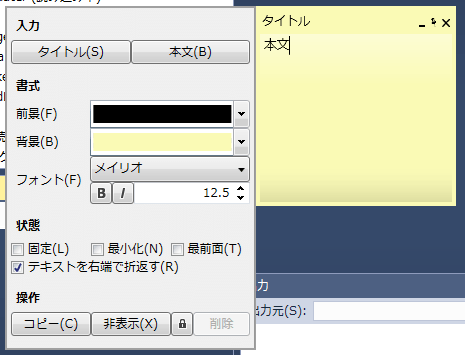
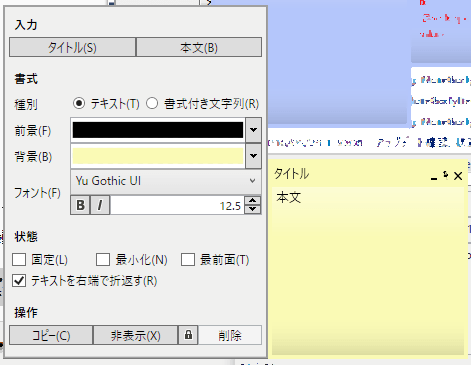
#448 doc

diff --git a/Pe/PeMain/doc/help/html/note.ja-JP.html b/Pe/PeMain/doc/help/html/note.ja-JP.html
@@ -25,24 +25,119 @@
 				各種入力は自動保存されます。
 			</p>
 
-			<h2>非表示と削除</h2>
-			<p>
-				非表示にした場合は通知領域のコンテキストメニューから復帰可能です。
-			</p>
-			<p>
-				削除した場合は復帰することは出来ません。
-			</p>
-			<div class="hint">
-				削除するには<em class="ui"><img src="../image/CommonLock.png" /></em>をクリックしてから<em class="ui">削除</em>をクリックしてください。
-			</div>
+			<h2>書式</h2>
+			<dl class="ui-help">
+				<dt>種別</dt>
+				<dd>
+					<p>
+						入力データを選択します。
+					</p>
+					<table>
+						<thead>
+							<tr>
+								<th>項目</th>
+								<th>内容</th>
+							</tr>
+						</thead>
+						<tbody>
+							<tr>
+								<td>テキスト</td>
+								<td>
+									<p>
+										入力データをプレーンテキストとして扱います。
+									</p>
+									<p>
+										プレーンテキストのためテキストそのものが唯一意味を持ち、
+										分かりやすい挙動で扱うことができます。
+									</p>
+								</td>
+							</tr>
+							<tr>
+								<td>書式付き文字列</td>
+								<td>
+									<p>
+										入力データを書式付き文字列として扱います。
+									</p>
+									<p>
+										RTFで書式を保持します。<br />
+										太字や斜体等の設定を一部の文字列だけに適用させることができます。
+									</p>
+									<div class="bug">
+										<p>
+											RichText コントロールの機能に対して操作UIが少なく、制御も不完全であるため予期しない書式・挙動が発生します。
+										</p>
+									</div>
+								</td>
+							</tr>
+						</tbody>
+					</table>
+					<div class="warning">
+						<p>
+							<strong class="value">書式付き文字列</strong>から<strong class="value">テキスト</strong>へ設定変更する場合は<em class="ui">書式の破棄</em>を押下後、ラジオボタンを切り替える必要があります。
+							切り替えた際には設定していた書式はすべて破棄されます。
+						</p>
+					</div>
+				</dd>
 
-			<h2>固定</h2>
-			<p>
-				固定にチェックを入れるとノートの移動や位置設定、本文入力ができなくなります。
-			</p>
-			<p>
-				これはマウスカーソルによる意図しない操作を防ぐためのもので、操作ウィンドウからの各種操作は固定の有無に関わらず有効です。
-			</p>
+				<dt>前景色・背景色</dt>
+				<dd>
+					<p>
+						ノートに対して各色を設定します。
+					</p>
+					<p>
+						<dfn>種別</dfn>が<strong class="value">書式付き文字列</strong>の場合、選択している文字列に対して設定が適用されます。
+					</p>
+				</dd>
+
+				<dt>フォント</dt>
+				<dd>
+					<p>
+						入力データを表示するフォントの設定を行います。
+					</p>
+					<p>
+						<dfn>種別</dfn>が<strong class="value">書式付き文字列</strong>の場合、選択している文字列に対して設定が適用されます。
+						さらに選択できる項目に<strong class="value">下線</strong>, <strong class="value">取り消し線</strong>が追加されます。
+					</p>
+				</dd>
+			</dl>
+
+			<h2>状態</h2>
+			<dl class="ui-help">
+				<dt>非表示と削除</dt>
+				<dd>
+					<p>
+						非表示にした場合は通知領域のコンテキストメニューから復帰可能です。
+					</p>
+					<p>
+						削除した場合は復帰することは出来ません。
+					</p>
+					<div class="hint">
+						<p>
+							削除するには<em class="ui"><img src="../image/CommonLock.png" /></em>をクリックしてから<em class="ui">削除</em>をクリックしてください。
+						</p>
+					</div>
+				</dd>
+
+				<dt>固定</dt>
+				<dd>
+					<p>
+						固定にチェックを入れるとノートの移動や位置設定、本文入力ができなくなります。
+					</p>
+					<p>
+						これはマウスカーソルによる意図しない操作を防ぐためのもので、操作ウィンドウからの各種操作は固定の有無に関わらず有効です。
+					</p>
+				</dd>
+
+				<dt>テキストを右端で折り返す</dt>
+				<dd>
+					<p>
+						テキストをノートのサイズに合わせて自動改行するか設定します。
+					</p>
+					<p>
+						<dfn>種別</dfn>が<strong class="value">書式付き文字列</strong>の場合、本項目は無効となり常に折り返されるようになります。
+					</p>
+				</dd>
+			</dl>
 
 		</section>
 		<nav id="main-menu"></nav>

diff --git a/Pe/PeMain/View/Parts/Control/SettingPage/NoteSettingControl.xaml b/Pe/PeMain/View/Parts/Control/SettingPage/NoteSettingControl.xaml
@@ -23,6 +23,8 @@
         <ResourceDictionary Source="/View/Parts/Resource/LabelDictionary.xaml"/>
         <ResourceDictionary Source="/View/Parts/Resource/AppHotKeyDictionary.xaml"/>
         <ResourceDictionary Source="/View/Parts/Resource/FontSelectDictionary.xaml"/>
+        <ResourceDictionary Source="/View/Parts/Resource/RadioButtonDictionary.xaml"/>
+        <ResourceDictionary Source="/View/Parts/Resource/CheckboxDictionary.xaml"/>
       </ResourceDictionary.MergedDictionaries>
       <SC:EnumToBooleanConverter x:Key="EnumToBooleanConverter" />
     </ResourceDictionary>
@@ -98,15 +100,20 @@
           <Label Grid.Row="2" Grid.Column="0" Content="back" AA:Language.Word="note-setting/style/back-color" Style="{StaticResource HeaderLabel}" />
           <xctk:ColorPicker Grid.Row="2" Grid.Column="1" Style="{StaticResource DefaultColorPicker}" SelectedColor="{Binding BackColor}" />
 
-          <CheckBox Grid.Row="3" Grid.Column="0" Grid.ColumnSpan="2" Content="topmost" AA:Language.Word="note/state/topmost" IsChecked="{Binding IsTopmost}" />
+          <CheckBox Grid.Row="3" Grid.Column="0" Grid.ColumnSpan="2" Content="topmost" AA:Language.Word="note/state/topmost" IsChecked="{Binding IsTopmost}" Style="{StaticResource DefaultVerticalCheckBox}" />
 
-          <CheckBox Grid.Row="4" Grid.Column="0" Grid.ColumnSpan="2" Content="autolinefeed" AA:Language.Word="note/state/autolinefeed" IsChecked="{Binding AutoLineFeed}" />
+          <CheckBox Grid.Row="4" Grid.Column="0" Grid.ColumnSpan="2" Content="autolinefeed" AA:Language.Word="note/state/autolinefeed" IsChecked="{Binding AutoLineFeed}" Style="{StaticResource DefaultVerticalCheckBox}" />
 
           <Label Grid.Row="5" Grid.Column="0" Content="kind" AA:Language.Word="note/style/kind" Style="{StaticResource HeaderLabel}" />
-          <DockPanel Grid.Row="5" Grid.Column="1">
-            <RadioButton Content="text" AA:Language.Word="note/style/kind/text" IsChecked="{Binding NoteKind, Converter={StaticResource EnumToBooleanConverter}, ConverterParameter={x:Static ADD:NoteKind.Text}}"/>
-            <RadioButton Content="rtf" AA:Language.Word="note/style/kind/rtf" IsChecked="{Binding NoteKind, Converter={StaticResource EnumToBooleanConverter}, ConverterParameter={x:Static ADD:NoteKind.Rtf}}" />
-          </DockPanel>
+          <Grid Grid.Row="5" Grid.Column="1">
+            <Grid.ColumnDefinitions>
+              <ColumnDefinition Width="5*" />
+              <ColumnDefinition Width="5*" />
+            </Grid.ColumnDefinitions>
+            <!-- 横方向はパネルに任せて縦用のスタイルを適用 -->
+            <RadioButton Grid.Column="0" Content="text" AA:Language.Word="note/style/kind/text" IsChecked="{Binding NoteKind, Converter={StaticResource EnumToBooleanConverter}, ConverterParameter={x:Static ADD:NoteKind.Text}}" Style="{StaticResource DefaultVerticalRadioButton}" />
+            <RadioButton Grid.Column="1" Content="rtf" AA:Language.Word="note/style/kind/rtf" IsChecked="{Binding NoteKind, Converter={StaticResource EnumToBooleanConverter}, ConverterParameter={x:Static ADD:NoteKind.Rtf}}" Style="{StaticResource DefaultVerticalRadioButton}" />
+          </Grid>
         </Grid>
       </GroupBox>
 

diff --git a/Pe/PeMain/View/NoteWindow.xaml b/Pe/PeMain/View/NoteWindow.xaml
@@ -363,10 +363,10 @@
                             <Setter Property="Content">
                               <Setter.Value>
                                 <WrapPanel Orientation="Horizontal">
-                                  <ToggleButton IsChecked="{Binding TextUnderline}">
+                                  <ToggleButton IsChecked="{Binding TextUnderline}" AA:Language.Hint="note/style/font/underline:hint">
                                     <Image Style="{StaticResource DefaultImage}" Source="{x:Static AM:AppResource.NoteFormatUnderlineImage}" />
                                   </ToggleButton>
-                                  <ToggleButton IsChecked="{Binding TextStrikethrough}">
+                                  <ToggleButton IsChecked="{Binding TextStrikethrough}" AA:Language.Hint="note/style/font/strikethrough:hint">
                                     <Image Style="{StaticResource DefaultImage}" Source="{x:Static AM:AppResource.NoteFormatStrikethroughImage}" />
                                   </ToggleButton>
                                 </WrapPanel>

diff --git a/Pe/PeMain/Properties/AssemblyInfo.cs b/Pe/PeMain/Properties/AssemblyInfo.cs
@@ -44,12 +44,12 @@ using System.Windows;
 // アセンブリのバージョン情報は、以下の 4 つの値で構成されています:
 //
 //      Major Version
-//      Minor Version 
+//      Minor Version
 //      Build Number
 //      Revision
 //
-// すべての値を指定するか、下のように '*' を使ってビルドおよびリビジョン番号を 
+// すべての値を指定するか、下のように '*' を使ってビルドおよびリビジョン番号を
 // 既定値にすることができます:
 // [assembly: AssemblyVersion("1.0.*")]
-[assembly: AssemblyVersion("0.79.5.*")]
+[assembly: AssemblyVersion("0.79.6.*")]
 [assembly: AssemblyInformationalVersion("xxxxxxxxxxxxxxDEVELOPMENTxxxxxxxxxxxxxxx")]
